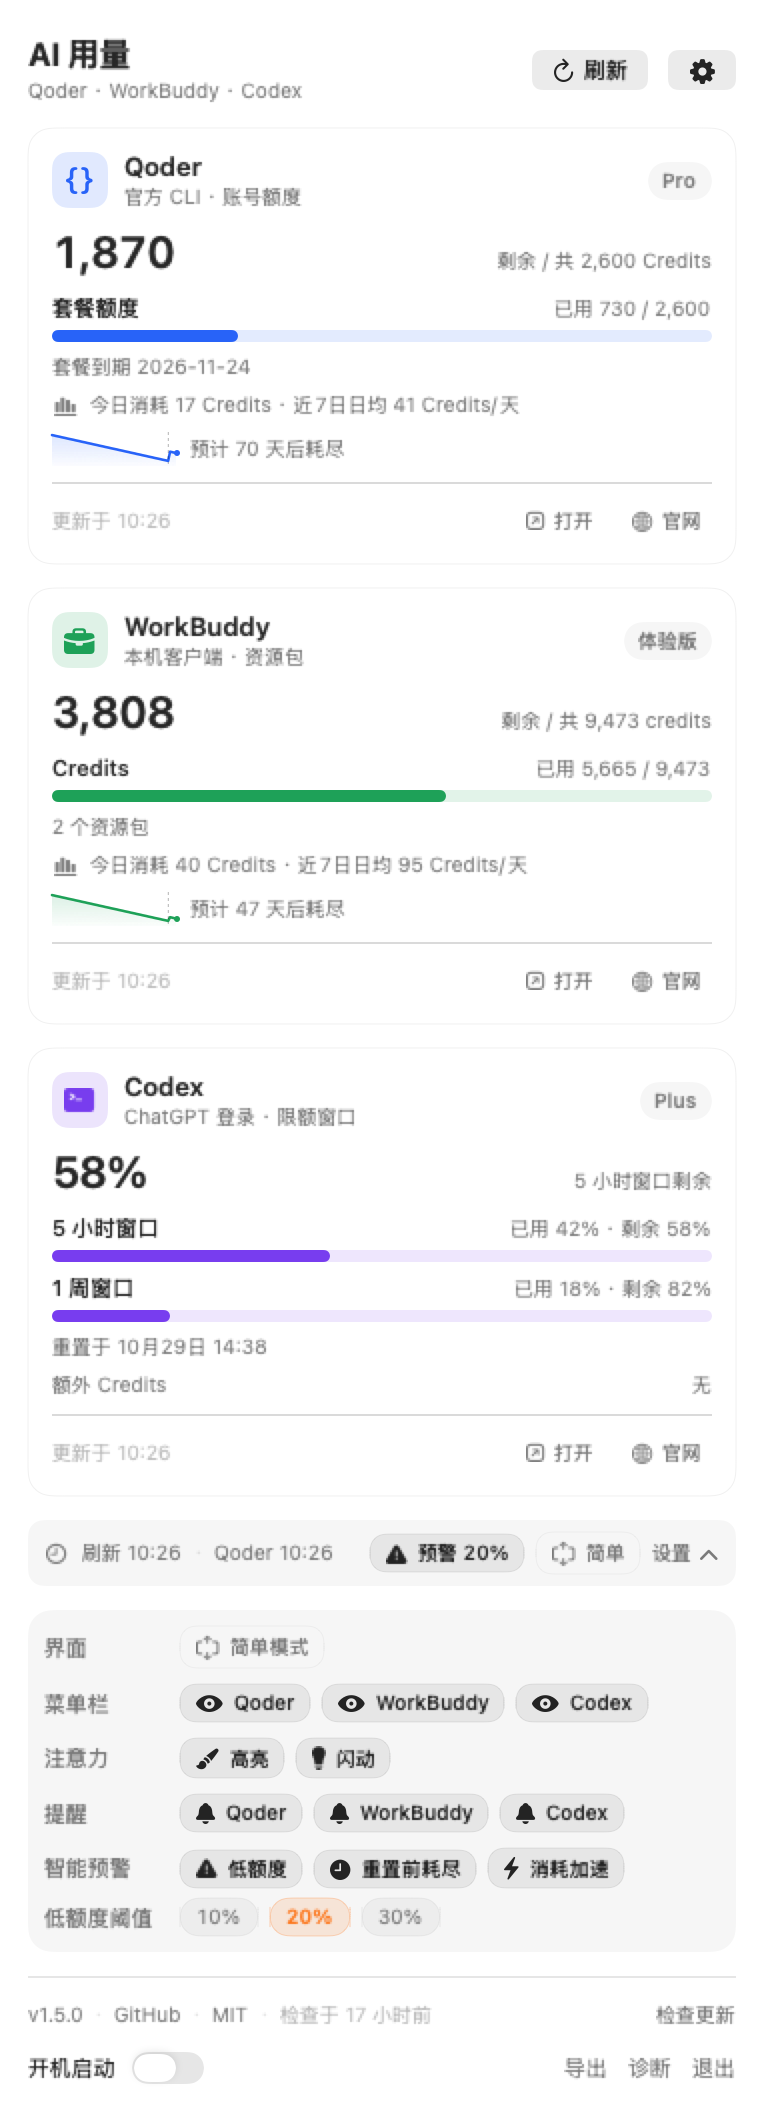
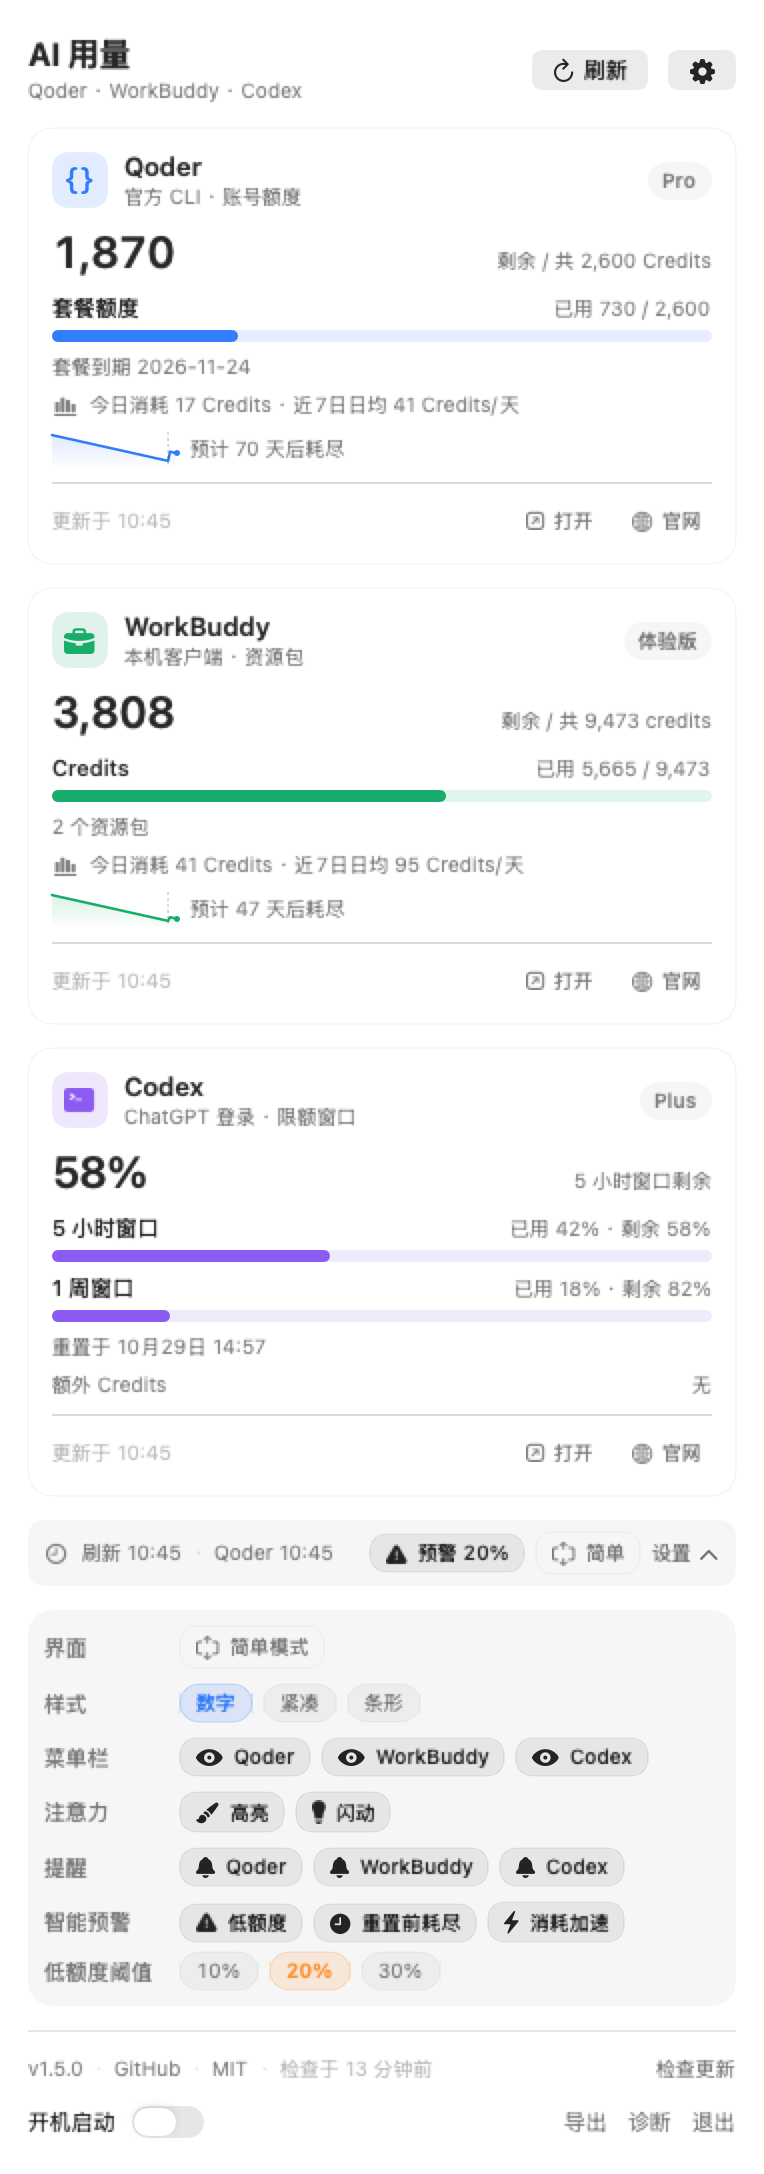
Add three switchable menu bar styles; release 1.6.0

diff --git a/Views.swift b/Views.swift
@@ -496,6 +496,9 @@ final class UsageStore: ObservableObject {
     @Published var simpleMode: Bool {
         didSet { UserDefaults.standard.set(simpleMode, forKey: "ui.simpleMode") }
     }
+    @Published var menuBarStyle: MenuBarStyle {
+        didSet { UserDefaults.standard.set(menuBarStyle.rawValue, forKey: "menuBar.style") }
+    }
     @Published private(set) var attentionItems: [AttentionItem] = []
     @Published private(set) var attentionSince: Date?
     @Published private(set) var mutedUntil: Date?
@@ -569,6 +572,7 @@ final class UsageStore: ObservableObject {
         menuBarHighlight = Self.storedFlag("attention.menuBar.highlight")
         menuBarBlink = Self.storedFlag("attention.menuBar.blink")
         simpleMode = UserDefaults.standard.object(forKey: "ui.simpleMode") as? Bool ?? false
+        menuBarStyle = MenuBarStyle(rawValue: UserDefaults.standard.string(forKey: "menuBar.style") ?? "") ?? .classic
         let muteEpoch = UserDefaults.standard.double(forKey: "attention.mute.until")
         mutedUntil = muteEpoch > 0 ? Date(timeIntervalSince1970: muteEpoch) : nil
         loadCache()
@@ -2090,13 +2094,175 @@ struct ProviderCard<Detail: View>: View {
     }
 }
 
+enum MenuBarStyle: String, CaseIterable, Identifiable {
+    case classic
+    case compact
+    case bars
+
+    var id: String { rawValue }
+
+    var title: String {
+        switch self {
+        case .classic: return "数字"
+        case .compact: return "紧凑"
+        case .bars: return "条形"
+        }
+    }
+
+    var sample: String {
+        switch self {
+        case .classic: return "Q 1,870   W 1,208   C 58%"
+        case .compact: return "Q1.9k W1.2k C58%"
+        case .bars: return "条形 + 72% 40% 58%"
+        }
+    }
+}
+
+/// 菜单栏上单个平台的展示数据：三种样式共用同一份，隐藏开关也在这里生效。
+struct MenuBarMetric {
+    let letter: String
+    let value: String
+    let compact: String
+    let percent: String
+    let fraction: Double?
+    let tint: Color
+}
+
+/// 条形样式左侧的小图：每个平台一列竖条，按品牌色从底部填充剩余比例。
+/// 显式给 1x/2x 两种位图，避免菜单栏在 Retina 上放大糊掉。
+enum MenuBarGlyph {
+    static let size = NSSize(width: 15, height: 12)
+
+    static func bars(_ metrics: [MenuBarMetric], dimmed: Bool) -> NSImage {
+        let image = NSImage(size: size)
+        for scale in [CGFloat(2), 1] {
+            guard let rep = bitmap(metrics, dimmed: dimmed, scale: scale) else { continue }
+            image.addRepresentation(rep)
+        }
+        return image
+    }
+
+    private static func bitmap(_ metrics: [MenuBarMetric], dimmed: Bool, scale: CGFloat) -> NSBitmapImageRep? {
+        guard let rep = NSBitmapImageRep(
+            bitmapDataPlanes: nil,
+            pixelsWide: Int(size.width * scale),
+            pixelsHigh: Int(size.height * scale),
+            bitsPerSample: 8,
+            samplesPerPixel: 4,
+            hasAlpha: true,
+            isPlanar: false,
+            colorSpaceName: .calibratedRGB,
+            bytesPerRow: 0,
+            bitsPerPixel: 0
+        ), let context = NSGraphicsContext(bitmapImageRep: rep) else {
+            return nil
+        }
+        rep.size = size
+        let previous = NSGraphicsContext.current
+        NSGraphicsContext.current = context
+        draw(metrics, dimmed: dimmed)
+        context.flushGraphics()
+        NSGraphicsContext.current = previous
+        return rep
+    }
+
+    private static func draw(_ metrics: [MenuBarMetric], dimmed: Bool) {
+        let count = metrics.count
+        guard count > 0 else { return }
+        let rect = NSRect(origin: .zero, size: size)
+        let gap: CGFloat = 2.25
+        let columnWidth = (rect.width - gap * CGFloat(count - 1)) / CGFloat(count)
+        let radius = min(columnWidth / 2, 1.4)
+        let trackColor = NSColor.labelColor.withAlphaComponent(dimmed ? 0.10 : 0.20)
+        for (index, metric) in metrics.enumerated() {
+            let x = CGFloat(index) * (columnWidth + gap)
+            trackColor.setFill()
+            NSBezierPath(
+                roundedRect: NSRect(x: x, y: 0, width: columnWidth, height: rect.height),
+                xRadius: radius,
+                yRadius: radius
+            ).fill()
+            guard let fraction = metric.fraction, fraction > 0 else { continue }
+            NSColor(metric.tint)
+                .withAlphaComponent(dimmed ? 0.25 : 1)
+                .setFill()
+            NSBezierPath(
+                roundedRect: NSRect(x: x, y: 0, width: columnWidth, height: max(2.5, rect.height * fraction)),
+                xRadius: radius,
+                yRadius: radius
+            ).fill()
+        }
+    }
+}
+
 extension UsageStore {
-    var menuBarText: String {
-        var parts: [String] = []
-        if showQoderInMenuBar { parts.append("Q \(qoderText)") }
-        if showWorkBuddyInMenuBar { parts.append("W \(workbuddyText)") }
-        if showCodexInMenuBar { parts.append("C \(codexText)") }
-        return parts.isEmpty ? "AI" : parts.joined(separator: "   ")
+    var menuBarMetrics: [MenuBarMetric] {
+        var metrics: [MenuBarMetric] = []
+        if showQoderInMenuBar {
+            let ok = qoder?.ok == true
+            let remaining: Double? = ok ? qoder?.remaining : nil
+            let total = ok ? (qoder?.total ?? 0) : 0
+            let percent = percentOf(remaining, over: total)
+            metrics.append(MenuBarMetric(
+                letter: "Q",
+                value: remaining.map { Format.credits($0) } ?? "--",
+                compact: remaining.map { Format.compact($0) } ?? "--",
+                percent: percent.map { Format.percent($0) } ?? "--",
+                fraction: fractionOf(percent),
+                tint: Theme.qoder
+            ))
+        }
+        if showWorkBuddyInMenuBar {
+            let ok = workbuddy?.ok == true
+            let remaining: Double? = ok ? workbuddy?.remaining : nil
+            let percent = percentOf(remaining, over: ok ? (workbuddy?.total ?? 0) : 0)
+            metrics.append(MenuBarMetric(
+                letter: "W",
+                value: remaining.map { Format.credits($0) } ?? "--",
+                compact: remaining.map { Format.compact($0) } ?? "--",
+                percent: percent.map { Format.percent($0) } ?? "--",
+                fraction: fractionOf(percent),
+                tint: Theme.workbuddy
+            ))
+        }
+        if showCodexInMenuBar {
+            let window = codex?.ok == true ? codex?.primaryWindow : nil
+            let percent = window?.remainingPercent
+            let text = percent.map { Format.percent($0) } ?? "--"
+            metrics.append(MenuBarMetric(
+                letter: "C",
+                value: text,
+                compact: text,
+                percent: text,
+                fraction: fractionOf(percent),
+                tint: Theme.codex
+            ))
+        }
+        return metrics
+    }
+
+    func menuBarText(for style: MenuBarStyle) -> String {
+        let metrics = menuBarMetrics
+        guard !metrics.isEmpty else { return "AI" }
+        switch style {
+        case .classic:
+            return metrics.map { "\($0.letter) \($0.value)" }.joined(separator: "   ")
+        case .compact:
+            return metrics.map { "\($0.letter)\($0.compact)" }.joined(separator: " ")
+        case .bars:
+            return metrics.map(\.percent).joined(separator: " ")
+        }
+    }
+
+    var menuBarText: String { menuBarText(for: menuBarStyle) }
+
+    private func percentOf(_ remaining: Double?, over total: Double) -> Double? {
+        guard let remaining, total > 0 else { return nil }
+        return remaining / total * 100
+    }
+
+    private func fractionOf(_ percent: Double?) -> Double? {
+        percent.map { min(max($0 / 100, 0), 1) }
     }
 
     var menuBarTooltip: String {
@@ -2135,24 +2301,6 @@ extension UsageStore {
         return forecast.text
     }
 
-    private var qoderText: String {
-        guard let qoder, qoder.ok == true, let remaining = qoder.remaining, (qoder.total ?? 0) > 0 else {
-            return "--"
-        }
-        return Format.credits(remaining)
-    }
-
-    private var workbuddyText: String {
-        guard let workbuddy, workbuddy.ok == true, let remaining = workbuddy.remaining else {
-            return "--"
-        }
-        return Format.credits(remaining)
-    }
-
-    private var codexText: String {
-        guard let codex, codex.ok == true, let window = codex.primaryWindow else { return "--" }
-        return Format.percent(window.remainingPercent)
-    }
 }
 
 struct MenuContent: View {
@@ -2976,6 +3124,11 @@ struct MenuContent: View {
 
     @ViewBuilder
     private var menuBarSettings: some View {
+        settingRow("样式") {
+            ForEach(MenuBarStyle.allCases) { style in
+                styleChip(style)
+            }
+        }
         settingRow("菜单栏") {
             settingChip(
                 "Qoder",
@@ -3099,6 +3252,32 @@ struct MenuContent: View {
             )
         )
         .help("低于 \(value)% 时提醒，恢复至 \(value + Int(UsageAnalytics.lowRecoveryGap))% 以上后重新布防")
+    }
+
+    private func styleChip(_ style: MenuBarStyle) -> some View {
+        let selected = store.menuBarStyle == style
+        return Button {
+            store.menuBarStyle = style
+        } label: {
+            Text(style.title)
+                .font(.system(size: 10, weight: selected ? .semibold : .regular))
+                .monospacedDigit()
+                .padding(.horizontal, 8)
+                .padding(.vertical, 3)
+                .fixedSize()
+                .foregroundStyle(selected ? Theme.qoder : Color.secondary)
+                .background(
+                    Capsule().fill(selected ? Theme.qoder.opacity(0.14) : Token.insetFill)
+                )
+                .overlay(
+                    Capsule().stroke(
+                        selected ? Theme.qoder.opacity(0.28) : Token.cardStroke.opacity(0.5),
+                        lineWidth: Token.hairline
+                    )
+                )
+        }
+        .buttonStyle(.plain)
+        .help("菜单栏显示 \(style.sample)")
     }
 
     private func settingChip(

diff --git a/TokenToolApp.swift b/TokenToolApp.swift
@@ -191,6 +191,14 @@ final class MenuBarController: NSObject, NSPopoverDelegate {
             color = kind == .warning ? .systemRed : .systemOrange
             if blinkDimmed { color = color.withAlphaComponent(0.25) }
         }
+        if store.menuBarStyle == .bars, !store.menuBarMetrics.isEmpty {
+            button.image = MenuBarGlyph.bars(store.menuBarMetrics, dimmed: blinkDimmed)
+            button.imagePosition = .imageLeading
+            button.imageScaling = .scaleNone
+        } else {
+            button.image = nil
+            button.imagePosition = .noImage
+        }
         button.attributedTitle = NSAttributedString(
             string: text,
             attributes: [
